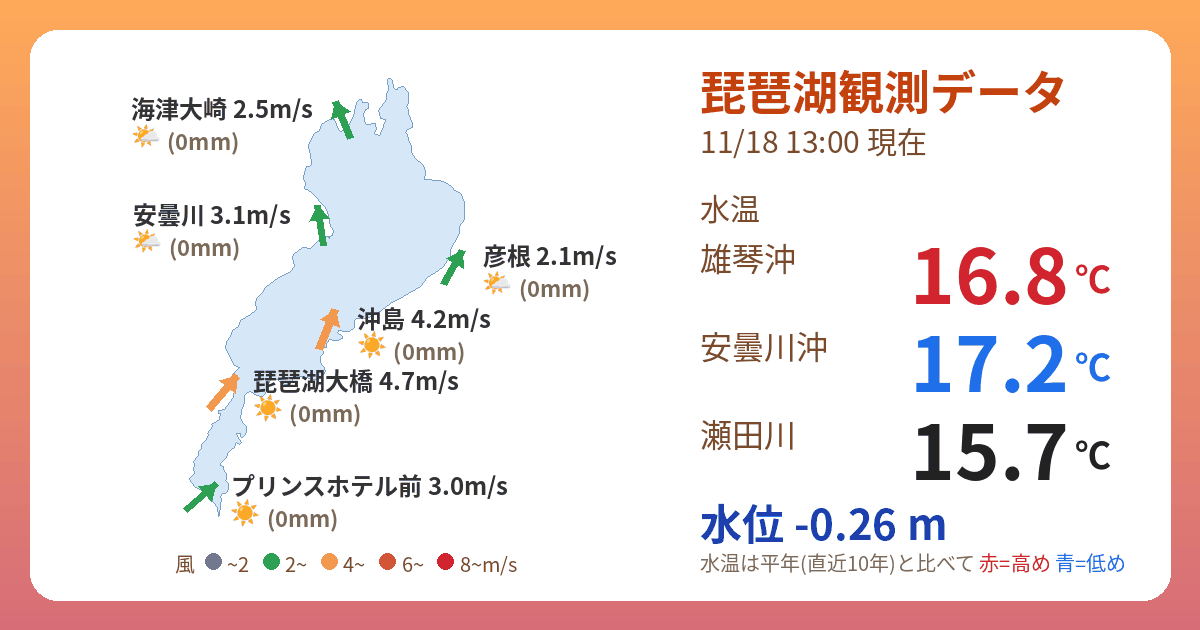
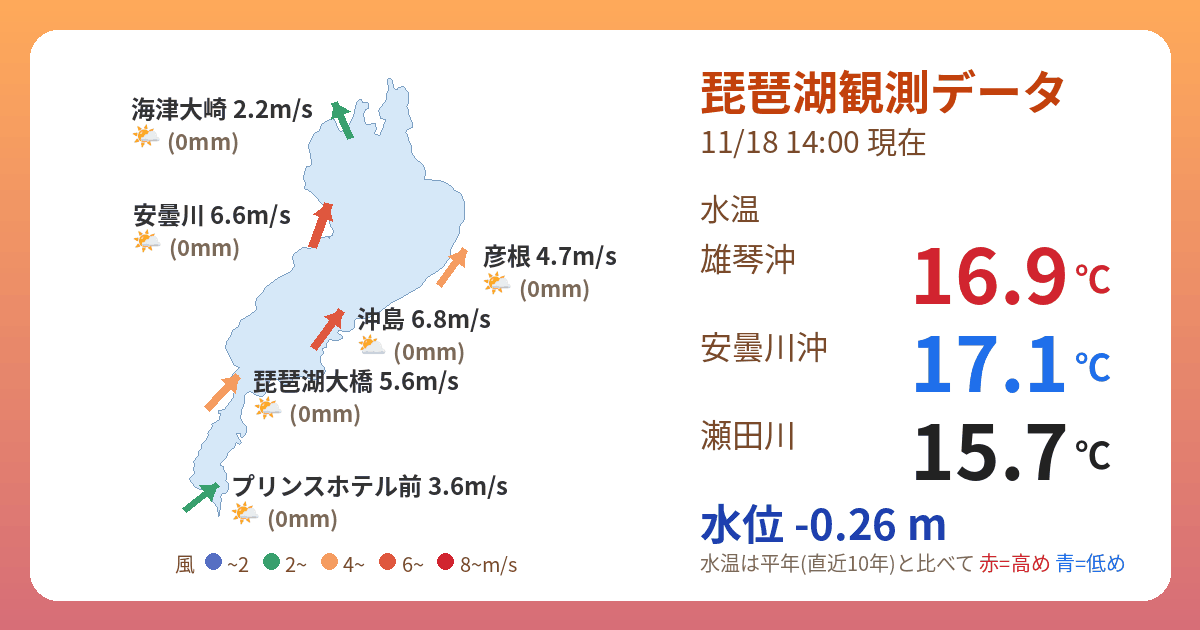
update data

diff --git a/share.html b/share.html
@@ -1,16 +1,16 @@
 <!doctype html>
 <html lang="ja"><head><meta charset="utf-8">
-<title>琵琶湖観測データ 11/18 13:00現在</title>
+<title>琵琶湖観測データ 11/18 14:00現在</title>
 <meta name="viewport" content="width=device-width,initial-scale=1">
 <meta property="og:type" content="website">
-<meta property="og:title" content="琵琶湖観測データ 11/18 13:00現在">
-<meta property="og:description" content="水温 雄琴沖16.8℃ 安曇川沖17.2℃ 瀬田川15.7℃ / 水位 -0.26m">
-<meta property="og:image" content="https://biwafishing.github.io/biwako-opendata/share.png?v=202611181300">
+<meta property="og:title" content="琵琶湖観測データ 11/18 14:00現在">
+<meta property="og:description" content="水温 雄琴沖16.9℃ 安曇川沖17.1℃ 瀬田川15.7℃ / 水位 -0.26m">
+<meta property="og:image" content="https://biwafishing.github.io/biwako-opendata/share.png?v=202611181400">
 <meta property="og:url" content="https://biwafishing.github.io/biwako-opendata/">
 <meta name="twitter:card" content="summary_large_image">
-<meta name="twitter:title" content="琵琶湖観測データ 11/18 13:00現在">
-<meta name="twitter:description" content="水温 雄琴沖16.8℃ 安曇川沖17.2℃ 瀬田川15.7℃ / 水位 -0.26m">
-<meta name="twitter:image" content="https://biwafishing.github.io/biwako-opendata/share.png?v=202611181300">
+<meta name="twitter:title" content="琵琶湖観測データ 11/18 14:00現在">
+<meta name="twitter:description" content="水温 雄琴沖16.9℃ 安曇川沖17.1℃ 瀬田川15.7℃ / 水位 -0.26m">
+<meta name="twitter:image" content="https://biwafishing.github.io/biwako-opendata/share.png?v=202611181400">
 <meta http-equiv="refresh" content="0; url=https://biwafishing.github.io/biwako-opendata/">
 </head><body><p><a href="https://biwafishing.github.io/biwako-opendata/">琵琶湖観測データを開く</a></p>
 <script>location.replace("https://biwafishing.github.io/biwako-opendata/")</script></body></html>
